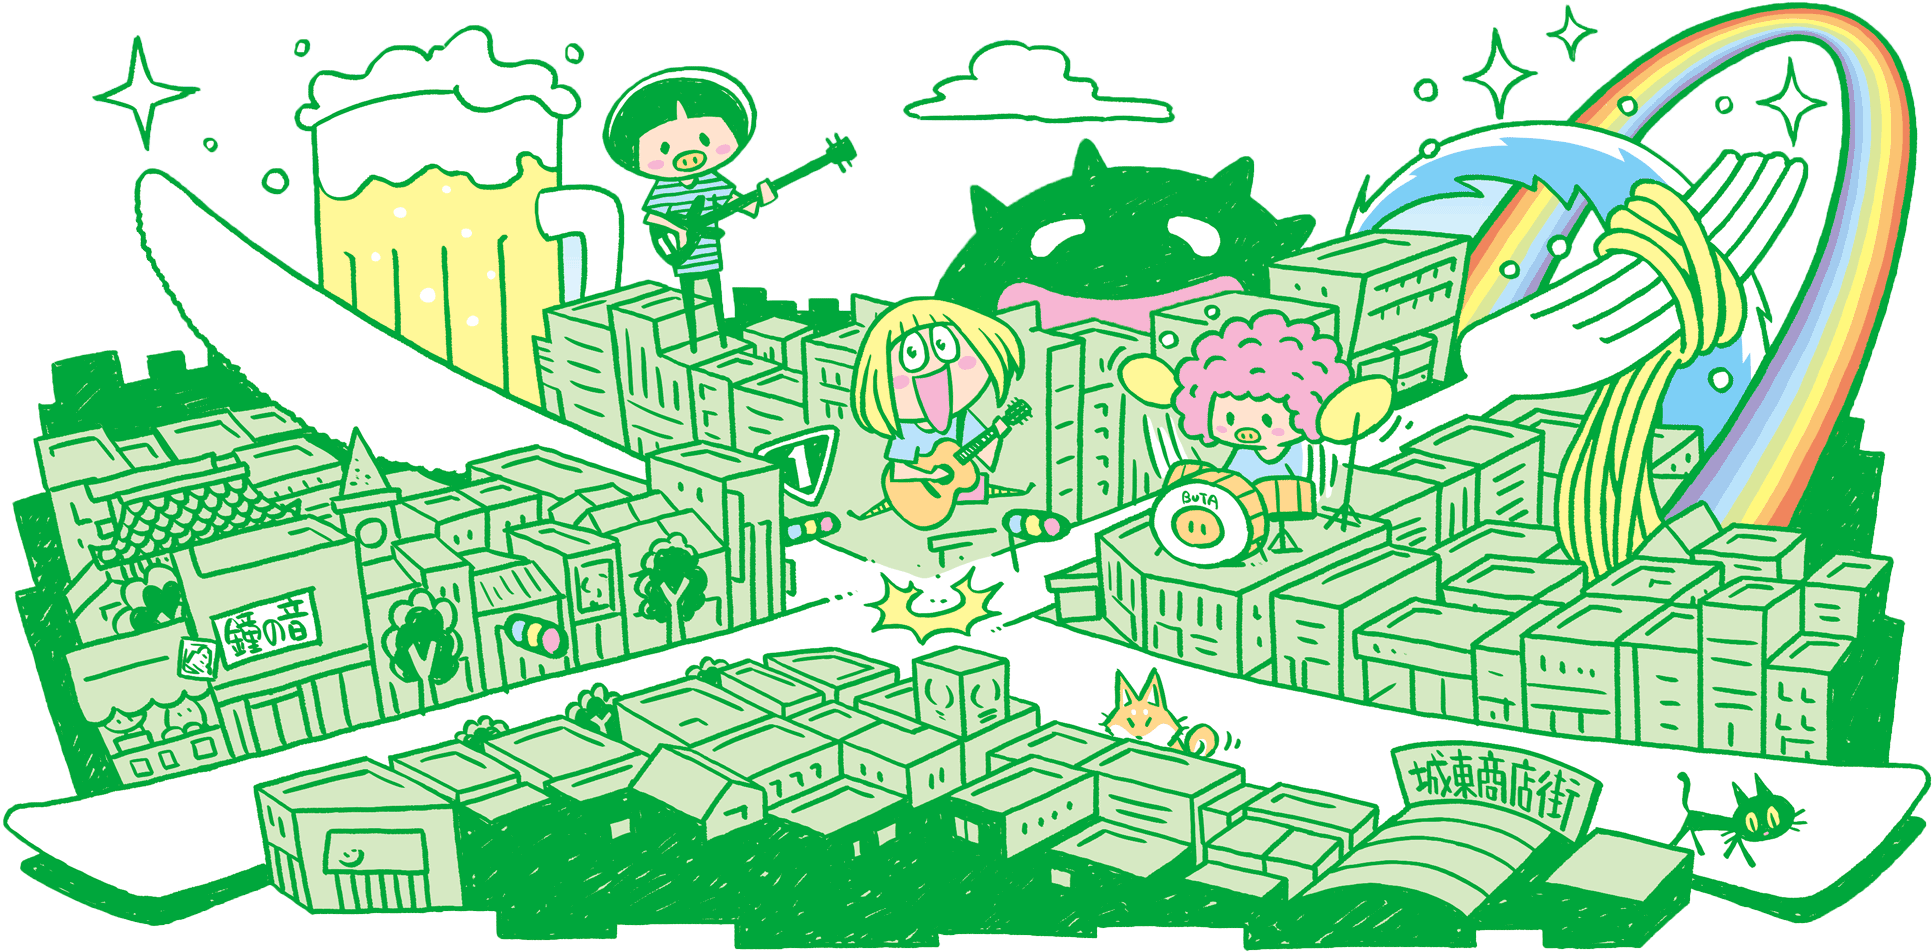
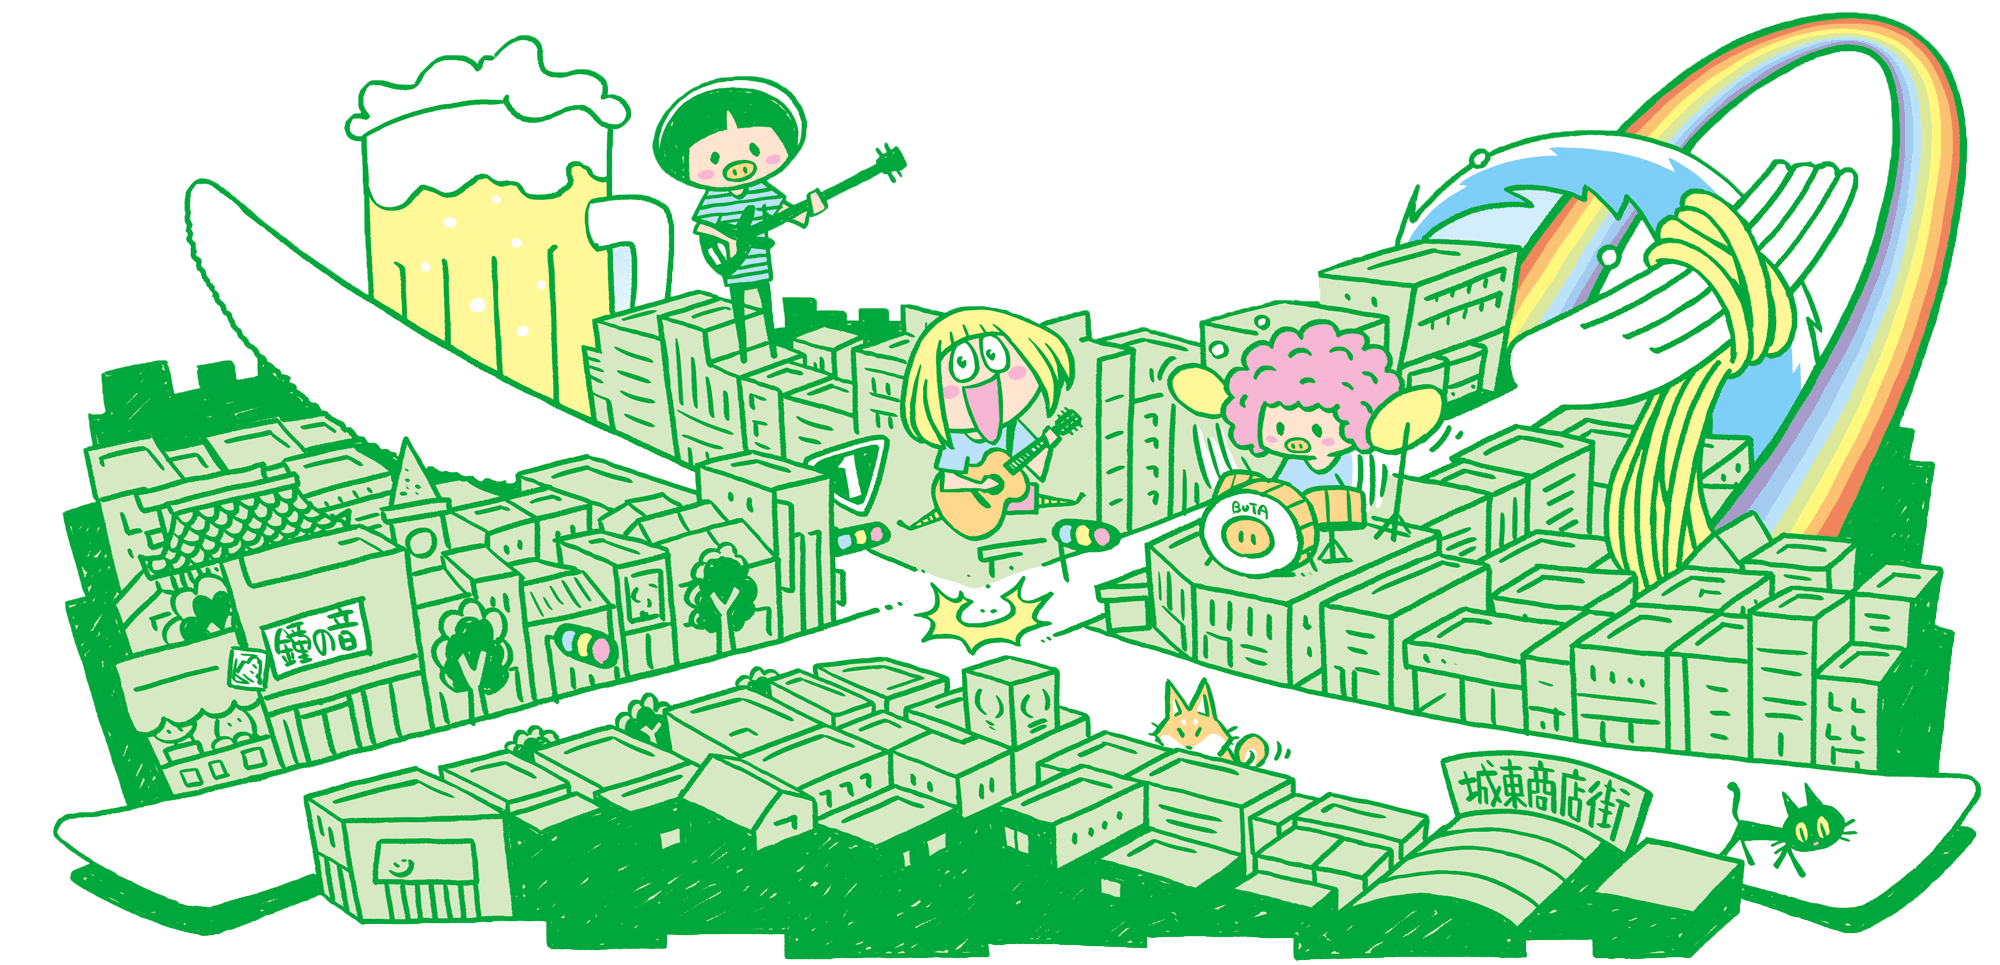
ui: top  add animation

diff --git a/src/app/pages/top/top-page/top-page.component.scss b/src/app/pages/top/top-page/top-page.component.scss
@@ -3,6 +3,11 @@
 
 .top-page-content {
   background-color: #fff;
+  &.is-loaded {
+    .main-image .bg-content.gyammossy {
+      transform: translateY(0);
+    }
+  }
 }
 
 .main-image {
@@ -17,10 +22,20 @@
     left: 0;
     right: 0;
     bottom: 0;
-    background-image: url($image-path + "/top/town.png");
     background-size: auto 75vh;
     background-position: center 5vh;
     background-repeat: no-repeat;
+    &.town {
+      z-index: 2;
+      background-image: url($image-path + "/top/town.png");
+    }
+    &.gyammossy {
+      transform: translateY(120px);
+      will-change: transform;
+      transition: transform 800ms ease-in 1000ms;
+      z-index: 1;
+      background-image: url($image-path + "/top/gyammossy.png");
+    }
   }
   .logo-content {
     position: absolute;
@@ -36,6 +51,72 @@
     background-repeat: no-repeat;
     color: transparent;
     text-indent: -9999px;
+    z-index: 10;
+  }
+  .cloud {
+    position: absolute;
+    top: 0;
+    left: 0;
+    right: 0;
+    height: 50px;
+    width: 180px;
+    margin: 80px auto 0;
+    background-image: url($image-path + "/top/kumo.png");
+    background-size: contain;
+    background-position: center center;
+    background-repeat: no-repeat;
+    z-index: 0;
+    will-change: transform;
+    animation: cloud 3s linear 0s infinite alternate;
+    &.cloud-2 {
+      right: auto;
+      margin: 0;
+      top: 200px;
+      animation: cloud 3s linear 2s infinite alternate;
+    }
+  }
+  .kira {
+    height: 100%;
+    position: absolute;
+    top: 0;
+    left: 0;
+    right: 0;
+    bottom: 0;
+    background-size: auto 75vh;
+    background-position: center 5vh;
+    background-repeat: no-repeat;
+    background-image: url($image-path + "/top/kira.png");
+    z-index: 2;
+  }
+}
+
+@keyframes cloud {
+  0% {
+    transform: translate(0, 0)
+  }
+  20% {
+    transform: translate(4px, 1px)
+  }
+  40% {
+    transform: translate(8px, 0px)
+  }
+  60% {
+    transform: translate(12px, -1px)
+  }
+  80% {
+    transform: translate(16px, 0px)
+  }
+  100% {
+    transform: translate(20px, 1px)
+  }
+}
+
+@keyframes blink {
+  0% {
+    opacity: 0.6
+  }
+  100% {
+    opacity: 1
   }
 }
 
@@ -536,6 +617,12 @@
     background-repeat: no-repeat;
     background-position: center center;
     height: 45px;
+  }
+}
+
+@media screen and (min-width:$screen-md) {
+  .main-image .kira {
+    animation: blink 800ms ease-in-out 0s infinite alternate;
   }
 }
 

diff --git a/src/app/pages/top/top-page/top-page.component.ts b/src/app/pages/top/top-page/top-page.component.ts
@@ -16,6 +16,7 @@ export class TopPageComponent implements OnInit, AfterViewInit {
   readonly routes: IRoutePaths = RouteConstant;
 
   supports: Support[];
+  isLoaded: boolean;
 
   constructor(private jsonConvertService: JsonConvertService,
               private titleService: Title,
@@ -33,6 +34,7 @@ export class TopPageComponent implements OnInit, AfterViewInit {
 
   ngAfterViewInit(): void {
     this.state.isLoaded.next(true);
+    setTimeout(() => this.isLoaded = true);
   }
 
   private fetchSupports() {

diff --git a/src/app/pages/top/top-page/top-page.component.html b/src/app/pages/top/top-page/top-page.component.html
@@ -1,6 +1,10 @@
-<div class="top-page-content">
+<div class="top-page-content" [class.is-loaded]="isLoaded">
   <div class="main-image">
-    <div class="bg-content"></div>
+    <div class="bg-content town"></div>
+    <div class="bg-content gyammossy"></div>
+    <div class="cloud cloud-1"></div>
+    <div class="cloud cloud-2"></div>
+    <div class="kira"></div>
     <div class="logo-content">がもよんフェス2019</div>
   </div>
   <div class="main-content container">
